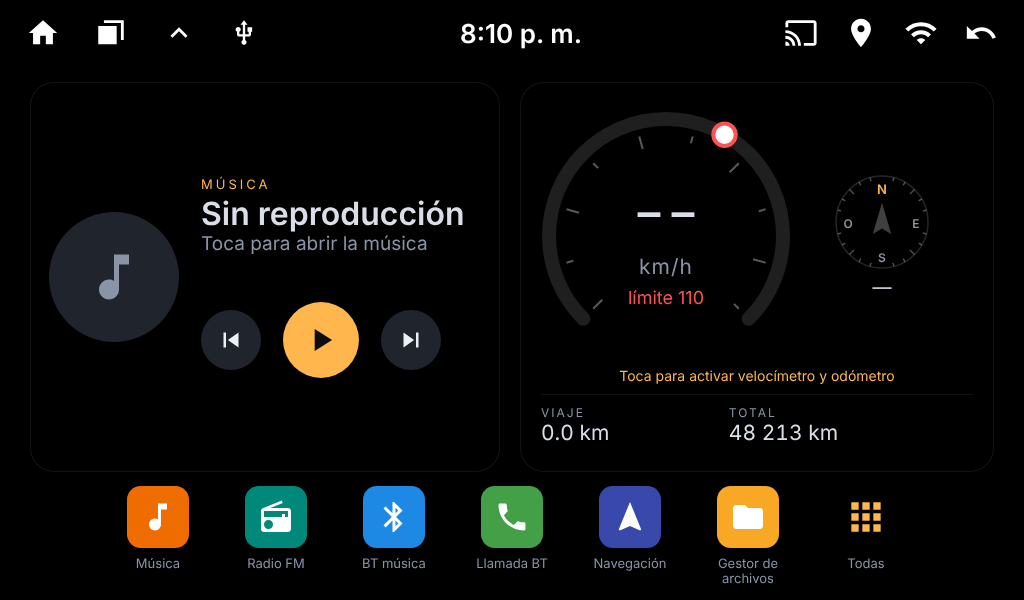
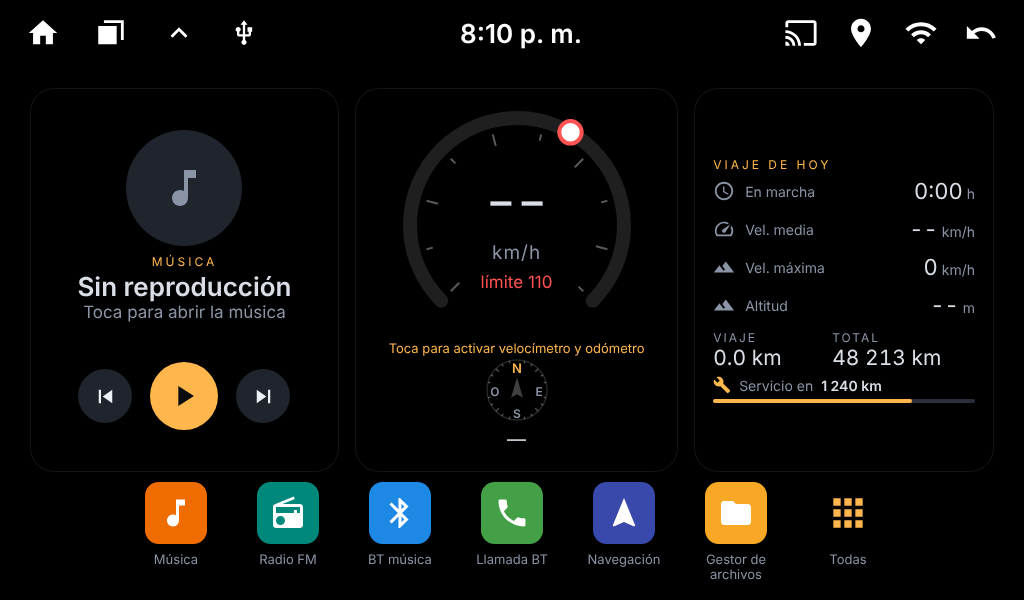
Docs 3.7.0: README, CHANGELOG e imágenes del diseño de tres tarjetas
Claude-Session: https://claude.ai/code/session_011vyBQ6bBFkKsMFyk998ioB

diff --git a/docs/preview/instrumentos.py b/docs/preview/instrumentos.py
@@ -1,5 +1,5 @@
 #!/usr/bin/env python3
-"""Inicio 3.6 (diseño A, 50/50): música y velocímetro en tarjetas de cristal iguales; dock sin círculos.
+"""Inicio 3.7 (diseño A, tres tarjetas): música, velocímetro con brújula y viaje; dock sin círculos.
 
 Genera docs/screenshots/01, 02 y 05 (render del diseño, no capturas del equipo).
     pip install playwright pillow && python3 docs/preview/instrumentos.py
@@ -99,40 +99,72 @@ def dock_all():
             f'<div style="font-size:13px;color:{DIM};text-align:center;line-height:1.15;height:30px;overflow:hidden">Todas</div></div>')
 
 
-def home(speed, heading, limit, trip, total, status=None, playing=True):
+def svg(path, s=22, col=DIM):
+    return f'<svg width="{s}" height="{s}" viewBox="0 0 24 24" fill="{col}"><path d="{path}"/></svg>'
+
+
+CLOCK = "M11.99,2C6.47,2 2,6.48 2,12s4.47,10 9.99,10C17.52,22 22,17.52 22,12S17.52,2 11.99,2zM12,20c-4.42,0 -8,-3.58 -8,-8s3.58,-8 8,-8 8,3.58 8,8 -3.58,8 -8,8zm0.5,-13H11v6l5.25,3.15 0.75,-1.23 -4.5,-2.67z"
+AVG = "M20.38,8.57l-1.23,1.85a8,8 0 0,1 -0.22,7.58H5.07A8,8 0 0,1 15.58,6.85l1.85,-1.23A10,10 0 0,0 3.35,19a2,2 0 0,0 1.72,1h13.85a2,2 0 0,0 1.74,-1 10,10 0 0,0 -0.27,-10.44zm-9.79,6.84a2,2 0 0,0 2.83,0l5.66,-8.49 -8.49,5.66a2,2 0 0,0 0,2.83z"
+PEAK = "M14,6l-3.75,5 2.85,3.8 -1.6,1.2C9.81,13.75 7,10 7,10l-6,8h22L14,6z"
+WRENCH = "M22.7,19l-9.1,-9.1c0.9,-2.3 0.4,-5 -1.5,-6.9 -2,-2 -5,-2.4 -7.4,-1.3L9,6 6,9 1.6,4.7C0.4,7.1 0.9,10.1 2.9,12.1c1.9,1.9 4.6,2.4 6.9,1.5l9.1,9.1c0.4,0.4 1,0.4 1.4,0l2.3,-2.3c0.5,-0.4 0.5,-1.1 0.1,-1.4z"
+
+
+def stat(icon, label, val, unit=""):
+    return (f'<div style="display:flex;align-items:center;gap:10px;padding:6px 0">{svg(icon, 22)}'
+            f'<div style="flex:1;font-size:14px;color:{DIM}">{label}</div>'
+            f'<div style="font-size:22px;color:{INK};font-variant-numeric:tabular-nums">{val}<span style="font-size:14px;color:{DIM};margin-left:4px">{unit}</span></div></div>')
+
+
+def dock_app(i):
+    return (f'<div style="display:flex;flex-direction:column;align-items:center;gap:8px;width:104px">{aicon(i, 62)}'
+            f'<div style="font-size:13px;color:{DIM};text-align:center;line-height:1.15;height:30px;overflow:hidden">{APPS[i][0]}</div></div>')
+
+
+def dock_all():
+    return (f'<div style="display:flex;flex-direction:column;align-items:center;gap:8px;width:104px"><div style="width:62px;height:62px;display:flex;align-items:center;justify-content:center">{ico("apps", 44, ACC)}</div>'
+            f'<div style="font-size:13px;color:{DIM};text-align:center;line-height:1.15;height:30px;overflow:hidden">Todas</div></div>')
+
+
+def home(speed, heading, limit, trip, total, status=None, playing=True, stats=("0:42", "54", "118", "1 540"), service=("Servicio en <b style=\"color:%s;font-weight:600\">1 240 km</b>" % INK, 76)):
     bg = (f'<div style="position:absolute;inset:-80px;background:{ART};filter:blur(70px) saturate(1.2) brightness(.5)"></div>' if playing else "")
     bg += '<div style="position:absolute;left:0;right:0;bottom:0;height:220px;background:linear-gradient(transparent,rgba(0,0,0,.7))"></div>'
     if playing:
-        src, title, artist, cov = "AHORA SUENA · USB", "Camino de noche", "Artista de ejemplo", cover(130, 65)
-        bar = f'<div style="margin-top:12px">{prog(34, 4)}</div><div style="margin-top:4px;display:flex;justify-content:space-between;font-size:13px;color:{DIM}"><span>1:17</span><span>3:45</span></div>'
+        src, title, artist, cov = "AHORA SUENA · USB", "Camino de noche", "Artista de ejemplo", cover(116, 58)
+        bar = f'<div style="width:100%;margin-top:10px">{prog(34, 4)}</div><div style="width:100%;margin-top:3px;display:flex;justify-content:space-between;font-size:12px;color:{DIM}"><span>1:17</span><span>3:45</span></div>'
         main_ico = "pause"
     else:
         src, title, artist = "MÚSICA", "Sin reproducción", "Toca para abrir la música"
-        cov = f'<div style="width:130px;height:130px;border-radius:65px;background:#1F242D;display:flex;align-items:center;justify-content:center">{ico("note", 60, DIM)}</div>'
-        bar = '<div style="margin-top:12px;height:4px"></div><div style="margin-top:4px;height:17px"></div>'
+        cov = f'<div style="width:116px;height:116px;border-radius:58px;background:#1F242D;display:flex;align-items:center;justify-content:center">{ico("note", 48, DIM)}</div>'
+        bar = '<div style="width:100%;margin-top:10px;height:4px"></div><div style="margin-top:3px;height:15px"></div>'
         main_ico = "play"
-    music = (f'<div style="{GLASS};flex:1;display:flex;align-items:center;padding:12px 18px;box-sizing:border-box">{cov}<div style="flex:1;min-width:0;margin-left:22px">'
-             f'<div style="font-size:13px;letter-spacing:3px;color:{ACC}">{src}</div>'
-             f'<div style="margin-top:4px;font-size:32px;font-weight:600;color:{INK};line-height:1.15;white-space:nowrap;overflow:hidden;text-overflow:ellipsis">{title}</div>'
-             f'<div style="font-size:19px;color:{DIM}">{artist}</div>{bar}'
-             f'<div style="margin-top:10px;display:flex;align-items:center;gap:22px">{btn("prev", 60)}{btn(main_ico, 76, True)}{btn("next", 60)}</div></div></div>')
-    st = f'<div style="margin-top:6px;text-align:center;font-size:14px;color:{ACC}">{status}</div>' if status else ""
-    card = (f'<div style="{GLASS};flex:1;padding:16px 20px 14px;box-sizing:border-box;margin-left:20px;display:flex;flex-direction:column;justify-content:center">'
-            f'<div style="display:flex;align-items:center">{speed_gauge(speed, limit)}{compass(heading)}</div>{st}'
-            f'<div style="height:1px;margin-top:10px;background:rgba(255,255,255,.08)"></div>'
-            f'<div style="display:flex;margin-top:10px">{odo("VIAJE", trip + " km")}{odo("TOTAL", total + " km", 1.3)}</div></div>')
+    music = (f'<div style="{GLASS};flex:1.05;min-width:0;padding:10px 16px;box-sizing:border-box;display:flex;flex-direction:column;align-items:center;justify-content:center;text-align:center">{cov}'
+             f'<div style="margin-top:8px;font-size:12px;letter-spacing:3px;color:{ACC}">{src}</div>'
+             f'<div style="margin-top:2px;max-width:100%;font-size:26px;font-weight:600;color:{INK};white-space:nowrap;overflow:hidden;text-overflow:ellipsis">{title}</div>'
+             f'<div style="font-size:17px;color:{DIM}">{artist}</div>{bar}'
+             f'<div style="margin-top:8px;display:flex;align-items:center;gap:18px">{btn("prev", 54)}{btn(main_ico, 68, True)}{btn("next", 54)}</div></div>')
+    st = f'<div style="text-align:center;font-size:13px;color:{ACC}">{status}</div>' if status else ""
+    gauge = (f'<div style="{GLASS};flex:1.15;min-width:0;margin-left:16px;padding:10px;box-sizing:border-box;display:flex;flex-direction:column;align-items:center;justify-content:center">'
+             f'{speed_gauge(speed, limit, 230)}{st}<div style="margin-top:2px">{compass(heading, 64)}</div></div>')
+    t, avg, mx, alt = stats
+    sv, pct = service
+    tripc = (f'<div style="{GLASS};flex:1;min-width:0;margin-left:16px;padding:10px 18px;box-sizing:border-box;display:flex;flex-direction:column;justify-content:center">'
+             f'<div style="font-size:12px;letter-spacing:3px;color:{ACC}">VIAJE DE HOY</div>'
+             f'{stat(CLOCK, "En marcha", t, "h")}{stat(AVG, "Vel. media", avg, "km/h")}{stat(PEAK, "Vel. máxima", mx, "km/h")}{stat(PEAK, "Altitud", alt, "m")}'
+             f'<div style="margin-top:6px;display:flex">{odo("VIAJE", trip + " km")}{odo("TOTAL", total + " km", 1.2)}</div>'
+             f'<div style="margin-top:6px;display:flex;align-items:center;gap:8px;font-size:14px;color:{DIM}">{svg(WRENCH, 18, ACC)}{sv}</div>'
+             f'<div style="margin-top:5px">{prog(pct, 4)}</div></div>')
     dock = "".join(dock_app(i) for i in range(6)) + dock_all()
     return frame(f"""{bg}<div style="position:absolute;inset:0;padding:16px 30px 14px;display:flex;flex-direction:column">
-  <div style="flex:1;display:flex;align-items:stretch;padding:0 0 14px">{music}{card}</div>
-  <div style="display:flex;justify-content:center;gap:14px">{dock}</div>
+  <div style="flex:1;display:flex;align-items:stretch;padding:6px 0 10px">{music}{gauge}{tripc}</div>
+  <div style="display:flex;justify-content:center;gap:8px;padding-bottom:4px">{dock}</div>
 </div>""", "#000")
 
 
 if __name__ == "__main__":
     SHOTS.mkdir(parents=True, exist_ok=True)
     jobs = [(SHOTS / "01-inicio-reproduciendo.png", lambda: home(72, 45, 110, "18.4", "48 213")),
-            (SHOTS / "02-inicio-reposo.png", lambda: home(None, None, 110, "0.0", "48 213", "Toca para activar velocímetro y odómetro", playing=False)),
-            (SHOTS / "05-limite-de-velocidad.png", lambda: home(118, 300, 110, "52.7", "48 247"))]
+            (SHOTS / "02-inicio-reposo.png", lambda: home(None, None, 110, "0.0", "48 213", "Toca para activar velocímetro y odómetro", playing=False, stats=("0:00", "--", "0", "--"))),
+            (SHOTS / "05-limite-de-velocidad.png", lambda: home(118, 300, 110, "52.7", "48 247", stats=("0:58", "54", "118", "1 540")))]
     with sync_playwright() as p:
         b = p.chromium.launch()
         pg = b.new_page(viewport={"width": 1024, "height": 600}, device_scale_factor=1)

diff --git a/README.md b/README.md
@@ -30,9 +30,9 @@ del estéreo (música, volante, ACC, cámara de reversa) sin necesitar ningún S
 
 ## Estado del proyecto
 
-**Versión estable: 3.6.0** (noviembre de 2026): nuevo diseño del inicio, límite de velocidad que se arrastra sobre el arco y aviso de voz grabado; ver [`CHANGELOG.md`](CHANGELOG.md).
+**Versión estable: 3.7.0** (noviembre de 2026): inicio en tres tarjetas (música · velocidad y brújula · viaje), con tiempo en marcha, velocidad media y máxima, altitud y recordatorio de servicio; límite de velocidad arrastrable y aviso de voz grabado; ver [`CHANGELOG.md`](CHANGELOG.md).
 La base de arranque es la de la 3.5.3, **probada por el autor en su JCAC10003** (12-nov-2026): abre bien y el velocímetro y la brújula funcionan.
-Las novedades de la 3.6.0 (diseño, marquesina, límite arrastrable y voz) se probaron en un emulador de Android 8.1; la confirmación en el equipo y en carretera está pendiente.
+Las novedades de la 3.6.0 y 3.7.0 (diseño, tarjeta de viaje, marquesina, límite arrastrable y voz) se probaron en un emulador de Android 8.1; la confirmación en el equipo y en carretera está pendiente.
 Las versiones 3.5.0–3.5.2 no abrían en este equipo: no las uses.
 
 - ✅ Inicio nocturno con música e instrumentos, dock de favoritos y panel de aplicaciones sin recuadros.
@@ -100,13 +100,17 @@ Si no estás seguro de poder revertirla, **no la instales**: usa `Laucher-8227L.
 
 ## Qué hace
 
-- **Inicio** de una sola pantalla: la música a la izquierda, los instrumentos a la derecha y un dock con 6 favoritos y «Todas». La hora y el estado los da la barra del sistema.
+- **Inicio** de una sola pantalla con tres tarjetas de cristal (música · velocímetro con brújula · viaje) y un dock con 6 favoritos y «Todas». La hora y el estado los da la barra del sistema.
 - **Velocímetro** de arco (0–180 km/h) con degradado verde → amarillo → rojo, **brújula** con el rumbo (N, NE, E… y grados) y
   **odómetro** de viaje y total, todo con el GPS del estéreo (1 posición por segundo):
   - **Límite de velocidad**: arrastra el tirador blanco por el arco del velocímetro (de 5 en 5 km/h; hasta el inicio = sin límite) y se guarda al soltar.
     Si lo pasas más de 2 s suena una **grabación** de voz femenina en español mexicano: «Está excediendo el límite de velocidad». La música o el vídeo bajan de volumen
     mientras suena y el volumen sube para que se oiga; se repite cada 30 s mientras sigas por encima (si falla la reproducción, suena un pitido).
     El número se pone rojo. Pulsación larga en el centro del velocímetro: probar el aviso.
+  - **Viaje de hoy** (tarjeta derecha): tiempo en marcha, velocidad media y máxima, y altitud, todo con el GPS. Se reinician con el viaje.
+    La velocidad media aparece tras 1 minuto en marcha. La altitud del GPS puede variar varios metros.
+  - **Servicio del auto**: toca el recordatorio («Servicio en 1 240 km») para marcar el servicio como hecho hoy, cambiar el intervalo (10 000 km por defecto) o quitarlo.
+    Se calcula con el odómetro total, así que conviene ajustarlo antes al número del tablero.
   - **Odómetro**: tócalo para *Reiniciar viaje a 0*, *Ajustar viaje* o *Ajustar total* (al número del tablero del auto). Atajos: pulsación larga en Viaje para reiniciarlo, en Total para ajustarlo.
   - Se descartan posiciones imprecisas, el «baile» del GPS con el auto parado y los saltos imposibles. Se mide solo con el auto encendido; una notificación
     silenciosa «Odómetro» mantiene el GPS activo aunque tengas otra app delante. Empiezan apagados: se activan tocando la tarjeta (y se apagan desde el menú del odómetro).
@@ -228,8 +232,8 @@ El aviso de voz (`res/raw/exceso_velocidad.ogg`) se generó con el modelo de voz
 A lightweight, fully native home-screen (launcher) for cheap Jancar/alps **AC8227L** Android car head units such as the **JCAC10003** (1 GB RAM, 1024×600).
 It replaces the factory launcher with a single-activity, ~80 KB, ~26 MB-PSS app that talks to the head unit's `com.jancar.services` (music, ACC, reverse camera, screen-off)
 through its own binder client. Third-party music apps are supported through Android media sessions. Since 3.5 it also shows a GPS speedometer (green→yellow→red),
-a compass and trip/total odometers, with a recorded spoken warning (Mexican Spanish) when you exceed a speed limit you set by dragging a knob along the speedometer arc; music/video is ducked meanwhile.
+a compass, trip/total odometers, a trip card (moving time, average/top speed, altitude) and a service-distance reminder, with a recorded spoken warning (Mexican Spanish) when you exceed a speed limit you set by dragging a knob along the speedometer arc; music/video is ducked meanwhile.
 
-**Download (stable 3.6.0; the 3.5.3 startup base was tested on the device):** [`Laucher-8227L.apk`](https://github.com/web-gdl/Laucher_8227L_JCAC10003/releases/latest/download/Laucher-8227L.apk) (installs like a normal app; the one to use) ·
+**Download (stable 3.7.0; the 3.5.3 startup base was tested on the device):** [`Laucher-8227L.apk`](https://github.com/web-gdl/Laucher_8227L_JCAC10003/releases/latest/download/Laucher-8227L.apk) (installs like a normal app; the one to use) ·
 [`Laucher-8227L-reemplazo.apk`](https://github.com/web-gdl/Laucher_8227L_JCAC10003/releases/latest/download/Laucher-8227L-reemplazo.apk) (replaces the factory launcher, needs `adb`).
 In daily use on one JCAC10003. APKs are signed with the public AOSP platform test key (see *Seguridad*). Public domain (Unlicense); provided as is, with no warranty.

diff --git a/CHANGELOG.md b/CHANGELOG.md
@@ -2,6 +2,17 @@
 
 Todas las versiones se publican en [Releases](https://github.com/web-gdl/Laucher_8227L_JCAC10003/releases) con los dos APK y sus sumas.
 
+## 3.7.0: inicio en tres tarjetas y viaje de hoy
+
+Probada en un emulador de Android 8.1 (arranque, GPS simulado); pendiente de confirmar en el equipo.
+
+- **Tres tarjetas** de cristal del mismo alto: música (portada, título y artista centrados), velocímetro con brújula debajo y **viaje de hoy**.
+- **Viaje de hoy**: tiempo en marcha (solo cuenta con el auto en movimiento y posiciones seguidas), velocidad media (desde 1 min en marcha),
+  velocidad máxima y altitud del GPS. Se guardan y se reinician con el viaje. Lógica en `car/Trip` con pruebas nuevas.
+- **Recordatorio de servicio**: «Servicio en N km» con barra, calculado con el odómetro total. Al tocarlo: servicio hecho hoy, cambiar intervalo
+  (por defecto 10 000 km) o quitarlo.
+- Velocímetro 230, brújula 64, portada 116 y botones de música algo menores para dar espacio a la tarjeta nueva.
+
 ## 3.6.0: nuevo diseño, límite arrastrable y aviso de voz grabado
 
 Las novedades se probaron en un emulador de Android 8.1 (arranque, GPS simulado, aviso de voz). **Pendiente de confirmar en el equipo y en carretera**; el arranque conserva el seguro de la 3.5.3.
